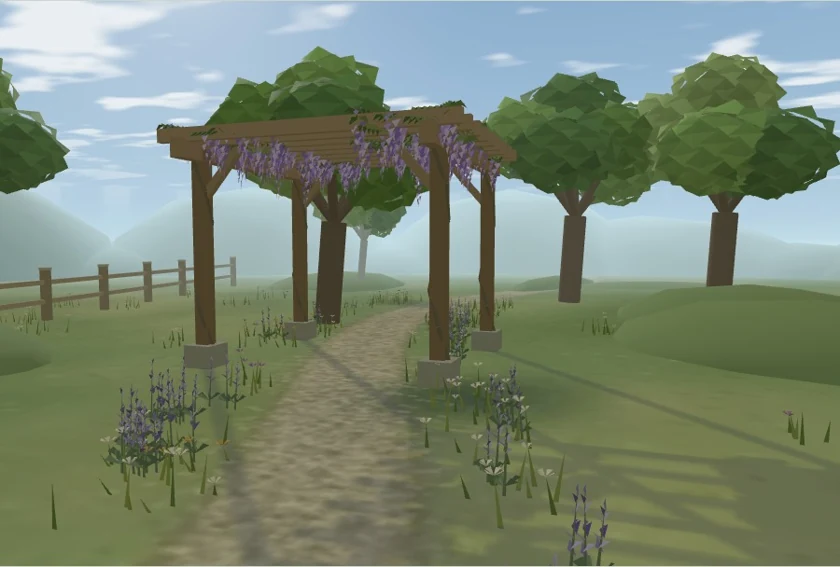
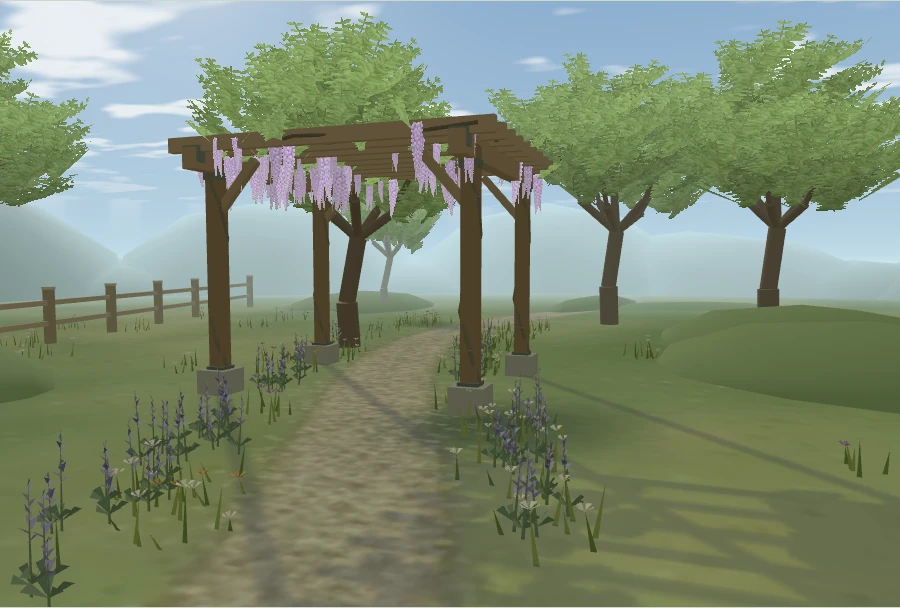
Dress the grove with botanical sprays and the ruined gate with meridian instruments

diff --git a/src/mmdVrShowcase/scenery/Meadow.tsx b/src/mmdVrShowcase/scenery/Meadow.tsx
@@ -1,9 +1,10 @@
 import { useEffect, useMemo } from 'react';
-import { BufferGeometry, Color, DoubleSide, Float32BufferAttribute, IcosahedronGeometry, Vector3 } from 'three';
+import { BufferGeometry, Color, DoubleSide, Float32BufferAttribute } from 'three';
 import { ARBOR, ARBOR_POSTS, LAWN_KNOLLS, LAWN_SIZE, LAWN_TREES, MEADOW_POSTS, MEADOW_SEAT, MEADOW_SUN, meadowPathX as pathX } from './placementAreas';
 import { span } from './detailParts';
 import groundUrl from './meadow-walk.webp';
 import benchURL from './garden-joinery.webp';
+import botanicalURL from './garden-botanicals.webp';
 import { useBakedSurface } from './useBakedSurface';
 import { seededRandom } from './ClassroomLayout';
 import { Batch, type Part } from './SceneryBatch';
@@ -23,23 +24,6 @@ function flowers() {
       tri([xx-.017,0,zz],[xx+.017,0,zz],[xx+ox,h,zz+oz],j%2?'#788e44':'#a1ad56');
       if(j<4){const rad=.035+random()*.02;const color=patch%6===0?'#ba85ac':patch%4?'#fff1cb':'#e2b55c';
         for(let k=0;k<5;k++){const a=k*1.256;tri([xx+ox,h,zz+oz],[xx+ox+rad*Math.cos(a-.38),h+.026,zz+oz+rad*Math.sin(a-.38)],[xx+ox+rad*Math.cos(a+.38),h+.032,zz+oz+rad*Math.sin(a+.38)],color);}}
-    }
-  }
-  // Compound leaves and tapering racemes of a wisteria trained along the arbor.
-  // Grow mostly over one side; gaps let sky and the far bend of the path show through.
-  for(let i=0;i<230;i++){
-    const side=i%4===0?-1:1, x=ARBOR.x+side*(.48+random()*1.22),z=ARBOR.z+(random()-.5)*3.16;
-    const y=2.77+.09*Math.sin(z*7)+random()*.13, a=random()*6.28;
-    for(let j=-2;j<=2;j++)for(const k of [-1,1]){
-      const xx=x+j*.063*Math.cos(a),zz=z+j*.063*Math.sin(a),dx=k*.107*Math.sin(a)+.064*Math.cos(a),dz=-k*.107*Math.cos(a)+.064*Math.sin(a);
-      const root:V=[xx,y,zz],tip:V=[xx+dx,y-.06,zz+dz],l:V=[xx+dx*.48-dz*.31,y+.014,zz+dz*.48+dx*.31],r:V=[xx+dx*.48+dz*.31,y,zz+dz*.48-dx*.31];
-      tri(root,l,tip,i%3?'#859953':'#a3ac63');tri(root,tip,r,'#647f48');
-    }
-    if(i%2===0){const length=.25+random()*.38;
-      for(let j=0;j<15;j++){
-        const t=j/15,theta=j*2.4+a,r=(1-t*.86)*.069,xx=x+r*Math.cos(theta),zz=z+r*Math.sin(theta),yy=y-t*length;
-        tri([xx-r*.88,yy,zz],[xx+r*.98,yy+.017,zz+.026],[xx,yy-.068,zz+.02],['#c6a4dd','#9c78b5','#e7cde8'][j%3]);
-      }
     }
   }
   // Taller lupine spires bordering the path: individual tiers of folded petals
@@ -91,21 +75,27 @@ function SeatFaces(){
   },[]);useEffect(()=>()=>geo.dispose(),[geo]);return map&&<mesh name="garden-bench-grain" position={[MEADOW_SEAT.x,0,MEADOW_SEAT.z]} rotation-y={MEADOW_SEAT.yaw} geometry={geo} raycast={noPick}><meshStandardMaterial map={map} roughness={.81} polygonOffset polygonOffsetFactor={-1}/></mesh>;
 }
 
-// Irregular sprays of leaves instead of a smooth green sphere. A small solid
-// core shades the interior; the perimeter breaks into individual leaf tips.
-function crownSpray() {
-  const pos:number[]=[],rgb:number[]=[],norm:number[]=[],rng=seededRandom(8189),core=new IcosahedronGeometry(.32,0),v=new Vector3();
-  const face=(a:Vector3,b:Vector3,c:Vector3,tint:number)=>{for(const p of [a,b,c]){pos.push(...p.toArray());norm.push(...p.clone().normalize().toArray());rgb.push(tint*.94,tint,tint*.84);}};
-  const verts=core.getAttribute('position');for(let i=0;i<verts.count;i+=3)face(new Vector3().fromBufferAttribute(verts,i),new Vector3().fromBufferAttribute(verts,i+1),new Vector3().fromBufferAttribute(verts,i+2),.64);core.dispose();
-  for(let i=0;i<62;i++){
-    const az=i*2.4,y=2*(i+.5)/62-1,r=Math.sqrt(1-y*y);v.set(Math.cos(az)*r,y,Math.sin(az)*r);
-    const center=v.clone().multiplyScalar(.30+rng()*.075),side=new Vector3(-Math.sin(az),0,Math.cos(az)), up=v.clone().cross(side).normalize();
-    const tip=center.clone().addScaledVector(v,.055+rng()*.07).addScaledVector(up,.035);
-    const left=center.clone().addScaledVector(side,-.132),right=center.clone().addScaledVector(side,.132),bottom=center.clone().addScaledVector(up,-.14);
-    const high=center.clone().addScaledVector(up,.14),tint=.68+rng()*.34+Math.max(0,y)*.24;
-    face(left,tip,high,tint);face(high,tip,right,tint*1.06);face(right,tip,bottom,tint*.83);face(bottom,tip,left,tint*.79);
+// Fold each spray in world space: the two eyes see the same branches. Crop the
+// texture to the printed silhouette to avoid large empty quads around flowers.
+function botanicalSprays(crowns:Part[]) {
+  const p:number[]=[],uv:number[]=[],rgb:number[]=[],rng=seededRandom(7615);
+  function sprig(x:number,y:number,z:number,w:number,h:number,a:number,lean:number,tone:number,flower=false){
+    const c=Math.cos(a),s=Math.sin(a),points:V[]=[],tex:number[][]=[];
+    const [u0,u1,v0,v1]=flower?[299,459,8,380]:[0,252,83,354];
+    for(const v of [0,1])for(const u of [0,.48,1]){const across=(u-.5)*w,bow=(u===.48?.11:0)*w+v*lean;
+      points.push([x+c*across-s*bow,y+h*v,z+s*across+c*bow]);tex.push([(u0+(u1-u0)*u)/512,1-(v0+(v1-v0)*(flower?v:1-v))/384]);}
+    for(const i of [0,3,4,0,4,1,1,4,5,1,5,2]){p.push(...points[i]);uv.push(...tex[i]);const t=tone*(i>=3?(flower?.93:1.13):1);rgb.push(t,t,t);}
   }
-  const g=new BufferGeometry();g.setAttribute('position',new Float32BufferAttribute(pos,3));g.setAttribute('color',new Float32BufferAttribute(rgb,3));g.setAttribute('normal',new Float32BufferAttribute(norm,3));return g;
+  for(const crown of crowns){const [x,y,z]=crown.p,[w,h,d]=crown.s;
+    for(let i=0;i<25;i++){const a=2.399*i+(crown.ry??0),t=(i+.5)/25,rad=Math.sin(t*Math.PI)*.25,sw=w*(.45+rng()*.16);
+      sprig(x+Math.sin(a)*w*rad,y+(t-.61)*h*.68,z+Math.cos(a)*d*rad,sw,h*(.23+.18*rng()),-a,(.21+rng()*.2)*w,.25+t*.54+rng()*.08);}}
+  for(let i=0;i<98;i++){
+    const side=i%4?-1:1,z=ARBOR.z+(rng()-.5)*3.11,x=ARBOR.x+side*(.32+rng()*1.36),a=rng()*6.28,y=2.81+.08*Math.sin(z*5);
+    sprig(x,y-.10,z,.34+rng()*.29,.22+rng()*.13,a,.28,.62+rng()*.32);
+    if(i%5!==0){const len=.26+rng()*.40,w=len*.42,tone=.74+rng()*.37;
+      for(const off of [0,1.52])sprig(x,y-.013,z,w,-len,a+off,.026,tone,true);}
+  }
+  const g=new BufferGeometry();g.setAttribute('position',new Float32BufferAttribute(p,3));g.setAttribute('uv',new Float32BufferAttribute(uv,2));g.setAttribute('color',new Float32BufferAttribute(rgb,3));g.computeVertexNormals();return g;
 }
 
 function grove() {
@@ -118,9 +108,9 @@ function grove() {
   // Distant ridges hide the board edge and give parallax as the viewer walks.
   for(let i=0;i<30;i++){const a=i*2*Math.PI/30;hills.push({p:[Math.sin(a)*39,-1.5,Math.cos(a)*39],s:[17+rng()*6,6+rng()*8,15+rng()*7],ry:a,color:i%3?'#819a83':'#91a591'});}
   for(let i=0;i<LAWN_TREES.length;i++){const tree=LAWN_TREES[i],{x,z,h}=tree,birch=i%3===1;const bark=birch?'#c4c1a9':'#806d53';
-    const fork:V=[x+.12,h*.44,z-.10];beam([x,0,z],fork,h*(birch?.064:.11),bark);
+    const fork:V=[x+.12,h*.44,z-.10],knee:V=[x-.037,h*.18,z+.05];beam([x,-.08,z],knee,h*(birch?.062:.086),bark);beam(knee,fork,h*(birch?.052:.069),bark);
     for(let j=0;j<6;j++) {const a=j*2.4+i*.61,r=j===0?0:h*(.19+rng()*.09),end:V=[x+Math.sin(a)*r,h*(j===0?.96:.66+rng()*.17),z+Math.cos(a)*r];
-      beam(fork,end,h*.041,bark);
+      const elbow:V=[fork[0]+(end[0]-fork[0])*.61,fork[1]+(end[1]-fork[1])*.39,fork[2]+(end[2]-fork[2])*.61];beam(fork,elbow,h*.037,bark);beam(elbow,end,h*.022,bark);
       leaves.push({p:end,s:[h*(birch?.49:.64),h*(birch?.58:.47),h*.55],ry:a,color:['#a5c672','#88ab5a','#bdd286','#7c9f60'][(i+j)%4]});
     }
   }
@@ -142,23 +132,28 @@ function grove() {
   put(0,.23,.03,[1.4,.055,.05],'#657367');
   for(const post of ARBOR_POSTS){const {x,z}=post,side=Math.sign(x-ARBOR.x);
     box([x,.14,z],[.37,.28,.37],'#b2ac90');box([x,1.45,z],[.17,2.46,.17],'#967c54');
+    box([x,.29,z],[.22,.05,.22],'#697465');box([x,2.50,z],[.20,.082,.20],'#777a65');
     wood.push(span([x,2.05,z],[x-side*.54,2.66,z],.092,'#ae9369'));
     for(let j=0;j<6;j++){const a=j*1.37;branches.push(span([x+.104*Math.cos(a),.27+j*.38,z+.104*Math.sin(a)],
       [x+.104*Math.cos(a+1.37),.65+j*.38,z+.104*Math.sin(a+1.37)],.052,'#807353'));}
   }
-  for(const side of [-1,1])box([ARBOR.x+side*1.53,2.65,ARBOR.z],[.16,.23,3.22],'#b3926a');
-  for(let j=0;j<9;j++)box([ARBOR.x,2.81,ARBOR.z+(j-4)*.37],[3.74,.16,.09],'#ba9e71');
+  for(const side of [-1,1]){box([ARBOR.x+side*1.53,2.65,ARBOR.z],[.16,.23,3.22],'#b3926a');
+    for(const end of [-1,1])box([ARBOR.x+side*1.53,2.70,ARBOR.z+end*1.51],[.19,.18,.13],'#7e826e');}
+  for(let j=0;j<9;j++){const z=ARBOR.z+(j-4)*.37;box([ARBOR.x,2.81,z],[3.74,.16,.09],'#ba9e71');
+    // A trained runner weaves beneath each rafter; from below the bunches now
+    // grow along actual branches rather than terminating in empty sky.
+    let p0:V=[ARBOR.x-1.72,2.76,z];for(let k=1;k<=7;k++){const p1:V=[ARBOR.x-1.72+k*.49,2.79+.033*Math.sin(k*1.8+j),z+.083*Math.sin(k*1.9+j)];branches.push(span(p0,p1,.039,'#72694b'));p0=p1;}}
   return {wood,branches,leaves,hills};
 }
 
 export function Meadow({shadows}:{shadows:boolean}) {
   const map=useBakedSurface(groundUrl);
-  const grass=useMemo(flowers,[]),foliage=useMemo(crownSpray,[]),p=useMemo(grove,[]);
+  const botanicals=useBakedSurface(botanicalURL),grass=useMemo(flowers,[]),p=useMemo(grove,[]),foliage=useMemo(()=>botanicalSprays(p.leaves),[p]);
   useEffect(()=>()=>{grass.dispose();foliage.dispose();},[grass,foliage]);
   return <group name="scenery:lawn"><mesh rotation-x={-Math.PI/2} receiveShadow={shadows} raycast={noPick}><planeGeometry args={[LAWN_SIZE,LAWN_SIZE]} /><meshStandardMaterial key={map?'painted':'loading'} map={map} color={map?'white':'#98ae6c'} roughness={1} /></mesh>
     {!shadows&&<LatticeShade/>}
     <SeatFaces/>
     <Batch name="meadow-seat-and-split-rail" parts={p.wood} casts={shadows} /><Batch name="oak-and-birch-branches" parts={p.branches} round casts={shadows} />
-    <Batch name="grove-canopies" parts={p.leaves} geometry={foliage} /><Batch name="distant-ridges" parts={p.hills} foliage />
+    {botanicals&&<mesh name="grove-canopies" geometry={foliage} raycast={noPick}><meshBasicMaterial map={botanicals} alphaTest={.36} vertexColors side={DoubleSide}/></mesh>}<Batch name="distant-ridges" parts={p.hills} foliage />
     <mesh geometry={grass} raycast={noPick}><meshStandardMaterial vertexColors roughness={1} side={DoubleSide} /></mesh></group>;
 }

diff --git a/src/mmdVrShowcase/scenery/AstralCourt.tsx b/src/mmdVrShowcase/scenery/AstralCourt.tsx
@@ -6,6 +6,8 @@ import { seededRandom } from './ClassroomLayout';
 import { COURT_PIERS, COURT_RADIUS } from './placementAreas';
 import { noPick, paintedSurface } from './sceneryPaint';
 import duskUrl from './astral-dusk.webp';
+import workshopUrl from './meridian-workshop.webp';
+import { useBakedSurface } from './useBakedSurface';
 
 const TAU = Math.PI * 2;
 const stone = ['#747b8d','#9596a2','#858796','#666e84','#8e91a0'];
@@ -13,38 +15,40 @@ const brass = '#b69a73';
 
 // A weathered wayfinding pennon hung on the *outside* of each pier. Paint on
 // folded, not camera-facing, cloth so its silhouette reads from both eyes.
-function pennons(){
-  const p:number[]=[],t:number[]=[],c=new Color();
+function meridianFaces(){
+  const p:number[]=[],uv:number[]=[];
+  const quad=(v:number[][],t:number[][])=>{for(const i of [0,1,2,0,2,3]){p.push(...v[i]);uv.push(t[i][0]/1024,1-t[i][1]/1024);}};
   for(const side of [-1,1]){
-    const at=(u:number,v:number)=>[side*(2.86+u),2.34-v,-4.31+.09*Math.sin(u*7)-.06*v];
-    const tri=(a:number[],b:number[],d:number[],color:string)=>{c.set(color);for(const pt of [a,b,d]){p.push(...pt);t.push(c.r,c.g,c.b);}};
-    const width=.89;
-    for(let i=0;i<10;i++){
-      const u=i*width/10,b=(i+1)*width/10;
-      const hem=(x:number)=>1.05+.31*(1-Math.abs(2*x/width-1));
-      const bands=(x:number)=>[0,.07,.11,hem(x)-.14,hem(x)-.108,hem(x)-.068,hem(x)];
-      for(let k=0;k<6;k++){
-        const y=bands(u),z=bands(b),color=['#b28e58','#426577','#397674','#d6b784','#528181','#c7ac7c'][k];
-        tri(at(u,y[k]),at(b,z[k]),at(u,y[k+1]),color);tri(at(b,z[k]),at(b,z[k+1]),at(u,y[k+1]),color);
-      }
-    }
-    const badge=(u:number,v:number)=>{const a=at(u,v);a[2]+=.017;return a;};
-    for(let i=0;i<8;i++){
-      const a=i*Math.PI/4,b=(i+1)*Math.PI/4,ra=i%2?.056:.19,rb=i%2?.19:.056;
-      tri(badge(.445,.52),badge(.445+ra*Math.cos(a),.52+ra*Math.sin(a)),badge(.445+rb*Math.cos(b),.52+rb*Math.sin(b)),'#e8d3a2');
-    }
+    const at=(u:number,v:number)=>[side*(2.86+u*.89),2.36-v*(1.13+.19*Math.sin(Math.PI*u)), -4.31+.072*Math.sin(u*10+v*.54)-.07*v];
+    for(let j=0;j<4;j++)for(let i=0;i<16;i++){const pts=[[i/16,j/4],[(i+1)/16,j/4],[(i+1)/16,(j+1)/4],[i/16,(j+1)/4]];
+      quad(pts.map(([u,v])=>at(u,v)),pts.map(([u,v])=>[2+507*u,2+773*v]));}
   }
-  const g=new BufferGeometry();g.setAttribute('position',new Float32BufferAttribute(p,3));g.setAttribute('color',new Float32BufferAttribute(t,3));g.computeVertexNormals();return g;
+  // Flush enamel/stone facing fits between the existing external flutes. The
+  // main shafts are still solid while the room's one atlas is being decoded.
+  for(const [i,{x,z,w,d}] of COURT_PIERS.entries()){
+    const h=i<2?2.55:[1.32,1.84,1.16,1.52][i-2];
+    const at=(a:number,y:number)=>[x+Math.sin(a)*w*.348,y,z+Math.cos(a)*d*.348];
+    for(let j=0;j<32;j++){const a=TAU*j/32,b=TAU*(j+1)/32,lo=.385,hi=h-.20,u=514+507*j/32,v=514+507*(j+1)/32;
+      quad([at(a,lo),at(b,lo),at(b,hi),at(a,hi)],[[u,773],[v,773],[v,4],[u,4]]);}
+  }
+  for(let i=0;i<19;i++)if(i!==6&&i!==7){const a=i*Math.PI/19+.012,b=(i+1)*Math.PI/19-.012,z=-4.3+(i===9?.443:.353);
+    const radial=(ang:number,r:number)=>[r*Math.cos(ang),2.55+r*Math.sin(ang),z];
+    quad([radial(a,2.632),radial(b,2.632),radial(b,3.045),radial(a,3.045)],[[3,1020],[1020,1020],[1020,787],[3,787]]);}
+  const g=new BufferGeometry();g.setAttribute('position',new Float32BufferAttribute(p,3));g.setAttribute('uv',new Float32BufferAttribute(uv,2));g.computeVertexNormals();return g;
 }
 
 function cliff(){
   const p:number[]=[],colors:number[]=[],t=new Color(),n=9,rnd=seededRandom(434);
   const top=Array.from({length:n},(_,i)=>{const a=i*TAU/n,r=.78+rnd()*.22;return [r*Math.cos(a),.40+rnd()*.09,r*Math.sin(a)];});
+  const lip=top.map(([x,y,z])=>[x*1.015,y-.095,z*1.015]);
+  const shale=lip.map(([x,y,z])=>[x*.93,y-.07,z*.93]);
   const mid=top.map(([x,,z])=>[x*(.80+rnd()*.16),-.10-rnd()*.24,z*(.80+rnd()*.16)]);
+  const toe=mid.map(([x,y,z])=>[x*(.56+rnd()*.22)+.07,y-.24-rnd()*.14,z*.63]);
   const tri=(a:number[],b:number[],c:number[],color:string)=>{t.set(color);for(const v of [a,b,c]){p.push(...v);colors.push(t.r,t.g,t.b);}};
   for(let i=0;i<n;i++) {const j=(i+1)%n;
-    tri([0,.50,0],top[j],top[i],'#92a19c');tri(top[i],top[j],mid[j],'#9aa0a5');tri(top[i],mid[j],mid[i],'#88909d');
-    tri(mid[i],mid[j],[.17,-1.12,.21],i%3?'#768094':'#858fa0');}
+    tri([0,.50,0],top[j],top[i],'#9caa9f');
+    for(const [u,v,base] of [[top,lip,'#b3b5a9'],[lip,shale,'#777d82'],[shale,mid,'#9196a1'],[mid,toe,'#808493']] as const){tri(u[i],u[j],v[j],base);tri(u[i],v[j],v[i],base);}
+    tri(toe[i],toe[j],[.17,-.94,.21],i%3?'#73798e':'#858fa0');}
   const geo=new BufferGeometry();geo.setAttribute('position',new Float32BufferAttribute(p,3));geo.setAttribute('color',new Float32BufferAttribute(colors,3));geo.computeVertexNormals();return geo;
 }
 
@@ -158,14 +162,14 @@ export function CourtSky(){
 
 export function AstralCourt({shadows}:{shadows:boolean}){
   const p=useMemo(masonry,[]),arch=useMemo(ruinedArch,[]),floor=useMemo(starChart,[]),facet=useMemo(()=>new OctahedronGeometry(1),[]);
-  const cliffGeo=useMemo(cliff,[]),fabric=useMemo(pennons,[]);
+  const cliffGeo=useMemo(cliff,[]),fabric=useMemo(meridianFaces,[]),workshop=useBakedSurface(workshopUrl);
   useEffect(()=>()=>{arch.dispose();floor.dispose();facet.dispose();cliffGeo.dispose();fabric.dispose();},[arch,floor,facet,cliffGeo,fabric]);
   return <group name="scenery:astralCourt" pointerEvents="none">
     <mesh position-y={-.24} raycast={noPick}><cylinderGeometry args={[COURT_RADIUS,COURT_RADIUS-.26,.476,96]}/><meshStandardMaterial color="#626979"/></mesh>
     <mesh rotation-x={-Math.PI/2} receiveShadow={shadows} raycast={noPick}><circleGeometry args={[COURT_RADIUS,96]}/><meshStandardMaterial map={floor} roughness={.89}/></mesh>
     <mesh position-y={-.95} raycast={noPick}><cylinderGeometry args={[COURT_RADIUS-.27,3.7,1,16]}/><meshStandardMaterial color="#545b6b" flatShading/></mesh>
     <mesh geometry={arch} castShadow={shadows} receiveShadow={shadows} raycast={noPick}><meshStandardMaterial vertexColors side={DoubleSide} roughness={.9}/></mesh>
-    <mesh geometry={fabric} raycast={noPick}><meshStandardMaterial vertexColors side={DoubleSide} roughness={1}/></mesh>
+    {workshop&&<mesh name="court:meridian-atlas" geometry={fabric} raycast={noPick}><meshStandardMaterial map={workshop} side={DoubleSide} roughness={.84}/></mesh>}
     <Batch parts={p.blocks} name="court:bases" casts={shadows}/><Batch parts={p.columns} name="court:columns" round casts={shadows}/>
     <Batch parts={p.islets} name="court:sky-islands" geometry={cliffGeo}/><Batch parts={p.jewels} name="court:waystones" geometry={facet}/>
     <Orrery/>

diff --git a/scripts/paint-grove-court.py b/scripts/paint-grove-court.py
@@ -1,0 +1,86 @@
+"""Original field studies for the wisteria walk and the meridian gate. Offline only."""
+from pathlib import Path
+from math import sin, cos, pi, tau
+import random
+import numpy as np
+from PIL import Image, ImageDraw, ImageFont
+
+OUT=Path(__file__).resolve().parents[1]/'src/mmdVrShowcase/scenery'
+r=random.Random(98143)
+
+def foliage():
+    # Left: a spray of compound leaves. Right: pendulous pea flowers and unopened buds.
+    im=Image.new('RGBA',(512,384),(112,144,87,0)); d=ImageDraw.Draw(im)
+    def leaf(x,y,dx,dy,tone):
+        wx,wy=-dy*.22,dx*.22
+        def pt(t,w):return (x+dx*t+w*wx,y+dy*t+w*wy)
+        d.polygon([pt(0,0),pt(.23,.72),pt(.55,1),pt(.80,.56),pt(1,0),pt(.76,-.69),pt(.39,-.96),pt(.17,-.55)],fill=tone)
+        d.polygon([pt(0,0),pt(.23,.72),pt(.55,1),pt(.80,.56),pt(1,0)],fill=tuple(min(255,a+14) for a in tone));d.line([pt(.03,0),pt(.56,.07),pt(.94,0)],fill='#a8b876',width=2)
+        for t in [.27,.48,.66]:d.line([pt(t,0),pt(t+.14,.61)],fill=tuple(min(255,a+22) for a in tone))
+    for j in range(7):
+        a=(-.86+j*.269);base=(122,345-j*15);dx,dy=sin(a)*119,-136-r.random()*78
+        d.line([base,(base[0]+dx,base[1]+dy)],fill='#85915b',width=3)
+        for k in range(1,8):
+            t=k/8;x,y=base[0]+dx*t,base[1]+dy*t
+            for side in [-1,1]:
+                l=(1-t*.42)*(28+r.random()*20);angle=a+side*(.83+r.random()*.39);shade=r.randrange(-21,18)
+                leaf(x,y,l*sin(angle),-l*cos(angle),(129+shade,161+shade,87+shade))
+    def stem(t):return 382+14*sin(2.3*t)-18*t*t,15+350*t
+    d.line([stem(i/30) for i in range(31)],fill='#97946a',width=4)
+    for j in reversed(range(86)):
+        t=j/86; a=j*2.399;x,y=stem(t);sz=6+18*(1-t)**.7
+        dx=(1-t*.88)*(40+11*sin(t*pi))*sin(a);px=x+dx;py=y+4*cos(a)
+        d.line([(x,y-4),(px,py+3)],fill='#899360',width=2)
+        shade=int(14*cos(a))+r.randrange(-8,9);c=lambda R,G,B:(R+shade,G+shade,B+shade)
+        d.ellipse((px-sz*.27,py-3,px+sz*.32,py+sz*1.02),fill=c(134,106,163))
+        d.ellipse((px-sz*.70,py-sz*.38,px+sz*.68,py+sz*.51),fill=c(196,172,210));d.arc((px-sz*.65,py-sz*.37,px+sz*.65,py+sz*.5),185,348,fill=c(221,202,224),width=2)
+        d.ellipse((px-sz*.34,py+sz*.18,px+sz*.17,py+sz*.78),fill=c(156,124,183));d.ellipse((px-sz*.10,py+sz*.18,px+sz*.29,py+sz*.65),fill=c(180,147,200));d.line((px-2,py+1,px+2,py+3),fill='#f5ddb3',width=2)
+    im.save(OUT/'garden-botanicals.webp',quality=91,method=6)
+
+def meridian():
+    w=h=1024;y,x=np.mgrid[:h,:w];rng=np.random.default_rng(8712)
+    def field(nx,ny):return (np.array(Image.fromarray(rng.integers(0,255,(ny,nx),dtype=np.uint8)).resize((w,h),Image.Resampling.BICUBIC),dtype='f')-128)/100
+    coarse=field(12,12);grain=rng.normal(0,2.1,(h,w));v=coarse*7+field(65,53)*3+grain
+    cloth=x<512;v+=np.where(cloth,2*np.sin(x*2.1)+2*np.sin(y*2.23)+6*np.cos(x*.061+.45*np.sin(y*.01)),4*np.sin(.04*y+.008*x+coarse*4))
+    base=np.where(cloth[:,:,None],np.array([44,106,108]),np.array([160,153,147]));im=Image.fromarray(np.uint8(np.clip(base+v[:,:,None],0,255)));d=ImageDraw.Draw(im)
+    gold='#e0bd7f';shadow='#725f4e';light='#f6d9a3';green='#9bc4b6'
+    def star(x,y,r,n=4):
+        pts=[(x+cos(i*pi/n-pi/2)*(r if i%2==0 else r*.24),y+sin(i*pi/n-pi/2)*(r if i%2==0 else r*.24)) for i in range(2*n)];d.polygon(pts,fill=gold);d.line([pts[0],(x,y),pts[n]],fill=light,width=2)
+    def circle(x,y,r,col,lw=1):d.ellipse((x-r,y-r,x+r,y+r),outline=col,width=lw)
+    def dial(cx,cy,rad):
+        for k in [.42,.73,.88,1]:circle(cx,cy,rad*k,gold,2)
+        for i in range(60):
+            a=i*tau/60;t=.79 if i%5==0 else .87;d.line((cx+rad*t*cos(a),cy+rad*t*sin(a),cx+rad*.96*cos(a),cy+rad*.96*sin(a)),fill=light,width=2 if i%5==0 else 1)
+        d.ellipse((cx-rad*.42,cy-rad*.88,cx+rad*.42,cy+rad*.88),outline=green,width=2);star(cx,cy,rad*.64,8)
+    # Auriga field standard: satin edging, diagrammatic embroidery, tassel hem.
+    for xx in (15,29,481,495):d.line((xx,0,xx,790),fill=gold,width=4 if xx in (15,495) else 2)
+    for j in range(27):
+        for side in (-1,1):
+            xx=256+side*221; yy=36+25*j;d.line((xx,yy,xx+side*8,yy+7,xx,yy+15),fill=green,width=2)
+    for y0 in [48,61,626,635]:d.line((21,y0,490,y0),fill=gold,width=2)
+    for radius in [158,165]:circle(256,331,radius,gold,2)
+    dial(256,331,129)
+    for sy in (112,550):star(256,sy,18);d.line((196,sy,228,sy),fill=gold,width=2);d.line((284,sy,316,sy),fill=gold,width=2)
+    for j in range(52):
+        px=r.randrange(45,467);py=r.randrange(88,612)
+        if (px-256)**2+(py-331)**2>168**2:star(px,py,r.uniform(1.8,6))
+    for yy in [666,678,706]:d.line((20,yy,256,yy+53,492,yy),fill=gold,width=3)
+    # Right column: stone courses, recessed enamel hour panels, brass journal pins.
+    for yy in [43,92,249,406,563,720]:d.line((512,yy,1023,yy+1),fill='#766e69',width=4);d.line((512,yy+4,1023,yy+4),fill='#c8bcab',width=2)
+    for j in range(4):
+        cx=576+j*128;d.rounded_rectangle((cx-43,123,cx+43,694),radius=34,fill='#736f70',outline='#d5bc96',width=5);d.rounded_rectangle((cx-36,133,cx+36,683),radius=28,fill='#506e71',outline='#334f56',width=3)
+        dial(cx,280,28);star(cx,196,12);d.line((cx,320,cx,587),fill=gold,width=2)
+        for i in range(22):
+            yy=330+i*11;dx=17 if i%5==0 else 8;d.line((cx-dx,yy,cx+dx,yy),fill=gold,width=2)
+        for k in [-1,1]:circle(cx,624+k*10,5,gold,2)
+        d.text((cx,90),['I','II','III','IV'][j],font=ImageFont.load_default(size=26),anchor='ms',fill=shadow)
+    # Bottom course, mapped block by block to the broken arch. Raised floret,
+    # punched copper borders, recess shadow. No extra draw for the stone face.
+    d.rectangle((0,784,1023,1023),fill='#696977');d.rounded_rectangle((12,794,1011,1012),radius=33,fill='#aca59b',outline='#dcd0b7',width=7);d.rounded_rectangle((36,817,986,988),radius=27,fill='#898584',outline='#6b6667',width=5)
+    for i in range(7):
+        px=96+i*138;d.line((px-62,902,px,847,px+62,902,px,957,px-62,902),fill='#c9b38f',width=5);star(px,902,29)
+    # Break up the digital precision without losing the large pattern at a distance.
+    a=np.asarray(im).astype(float);wear=np.clip((field(57,68)-.42)*.48,0,.35)[:,:,None];a=a*(1-wear)+np.array([153,152,133])*wear;a+=grain[:,:,None]*.8
+    Image.fromarray(np.uint8(np.clip(a,0,255))).save(OUT/'meridian-workshop.webp',quality=90,method=6)
+
+if __name__=='__main__':foliage();meridian()

diff --git a/docs/scenery/README.md b/docs/scenery/README.md
@@ -4,6 +4,20 @@
 
 ## 布景怎么做
 
+**先打磨角色身边现有的布景。** 取全身和一步之内的近景各一张，检查植物剪影、材料接缝、物体与地面的接触，而不只从远处看设施齐不齐。
+
+### 草坪花架与遗庭拱门：同机位对照
+
+两图均为屏幕模式实景，左旧右新；相同机位、光照、阴影关。草坪树冠和花穗共用一张 512×384 植物图，用裁去空白的折面做叶簇和总状花序。拱门、柱上珐琅刻度和曲面旗共用一张 1024² 图；金线与石缝画在图里，布褶和柱棱仍是立体轮廓。[离线制作脚本](../../scripts/paint-grove-court.py)。
+
+![紫藤花架下，左旧右新](../screenshots/wisteria-detail.webp)
+
+![星环遗庭柱旁，左旧右新](../screenshots/meridian-detail.webp)
+
+花径／架下两个空场机位，绘制调用都是 8，三角形从 66,731 到 53,838；遗庭正面 16 次、柱旁 15 次，不变，正面三角形从 15,336 到 16,888。带透明裁切的叶簇仍有像素开销，需在头显确认远处叶缘是否闪烁。这里的计数不表示 Quest 帧率，也不衡量 VMD 播放。
+
+### 制作方法
+
 看礼拜堂的侧窗最容易分清：玻璃里的百合花瓣和铅条是图，前面的石边框、窗台、束柱是立体模型。头往旁边移时，近处石框会遮住一部分花瓣。让这个遮挡和轮廓正确，比把所有纹样都堆成小网格更重要。
 
 - **先定尺度和机位。** 舞台以米为单位，角色脚底是 `y=0`。椅子、柱脚等从布局数据确定外形和占地。用眼睛实际能走到的位置决定要做哪些面。

diff --git a/README.md b/README.md
@@ -33,6 +33,8 @@ Import PMX/PMD characters, VMD motions and GLB/glTF props on the prep page. Choo
 
 ![A clear limestone aisle between oak pews, leading to the altar and its eight-petal stained-glass rose.](./docs/screenshots/dawn-chapel.webp)
 
+Close views from the same camera, before (left) and after (right): [wisteria under the timber arbor](./docs/screenshots/wisteria-detail.webp) · [the meridian standard and enamel hour scale](./docs/screenshots/meridian-detail.webp).
+
 The four-set gallery and chapel are captured in screen mode. The classroom is the prep-page render; Astral Court is a desktop XR simulator capture. All show built-in scenery without imported characters. See [how the scenery is made](./docs/scenery/README.md) for the modelling and texture workflow.
 
 ## Features
